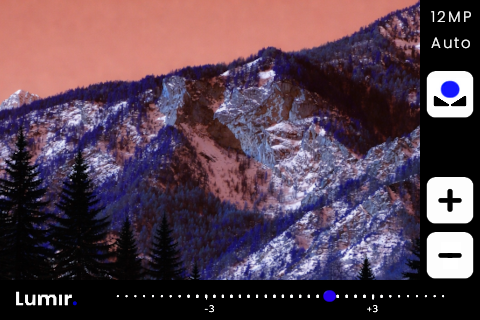
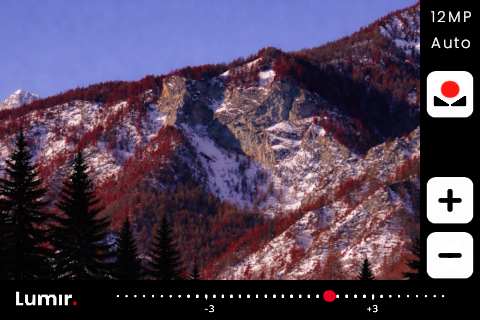
fix background, preview

diff --git a/raspycam.py b/raspycam.py
@@ -203,6 +203,15 @@ def prepare_preview_frame(frame: np.ndarray, preview_w: int, preview_h: int, rot
     return img
 
 
+def bgr_frame_to_rgb(frame: np.ndarray) -> np.ndarray:
+    if frame.ndim != 3 or frame.shape[2] < 3:
+        raise ValueError(f"Unexpected camera frame shape: {frame.shape}")
+    # Picamera2 BGR888 frames arrive as B, G, R; convert to RGB for a single
+    # consistent internal color space across live preview, base image, and
+    # captured-photo preview.
+    return frame[:, :, :3][:, :, ::-1]
+
+
 def run_still_capture_command(cmd: List[str]) -> None:
     try:
         subprocess.run(cmd, check=True, stdout=subprocess.PIPE, stderr=subprocess.STDOUT, text=True)
@@ -379,7 +388,7 @@ def capture_still_photo_to_file(
 def create_preview_camera(Picamera2, cam_w: int, cam_h: int, frame_duration_us: int):
     picam = Picamera2()
     config = picam.create_video_configuration(
-        main={"size": (cam_w, cam_h), "format": "RGB888"},
+        main={"size": (cam_w, cam_h), "format": "BGR888"},
         controls={"FrameDurationLimits": (frame_duration_us, frame_duration_us)},
         buffer_count=4,
         queue=True,
@@ -921,7 +930,7 @@ def main() -> int:
     frame_duration_us = int(1_000_000 / target_fps)
     picam = Picamera2()
     config = picam.create_video_configuration(
-        main={"size": (cam_w, cam_h), "format": "RGB888"},
+        main={"size": (cam_w, cam_h), "format": "BGR888"},
         controls={"FrameDurationLimits": (frame_duration_us, frame_duration_us)},
         buffer_count=4,
         queue=True,
@@ -1027,8 +1036,10 @@ def main() -> int:
                         # Recreate preview camera after external capture command.
                         picam = create_preview_camera(Picamera2, cam_w, cam_h, frame_duration_us)
                         apply_wb_preset(picam, wb_presets[wb_preset_idx])
+                        # Restore the static background before region-based live updates.
+                        presenter.present(base_payload)
                     continue
-                frame = picam.capture_array("main")
+                frame = bgr_frame_to_rgb(picam.capture_array("main"))
                 touch_pos = touch_monitor.poll_touched()
                 if touch_pos is not None:
                     try:
